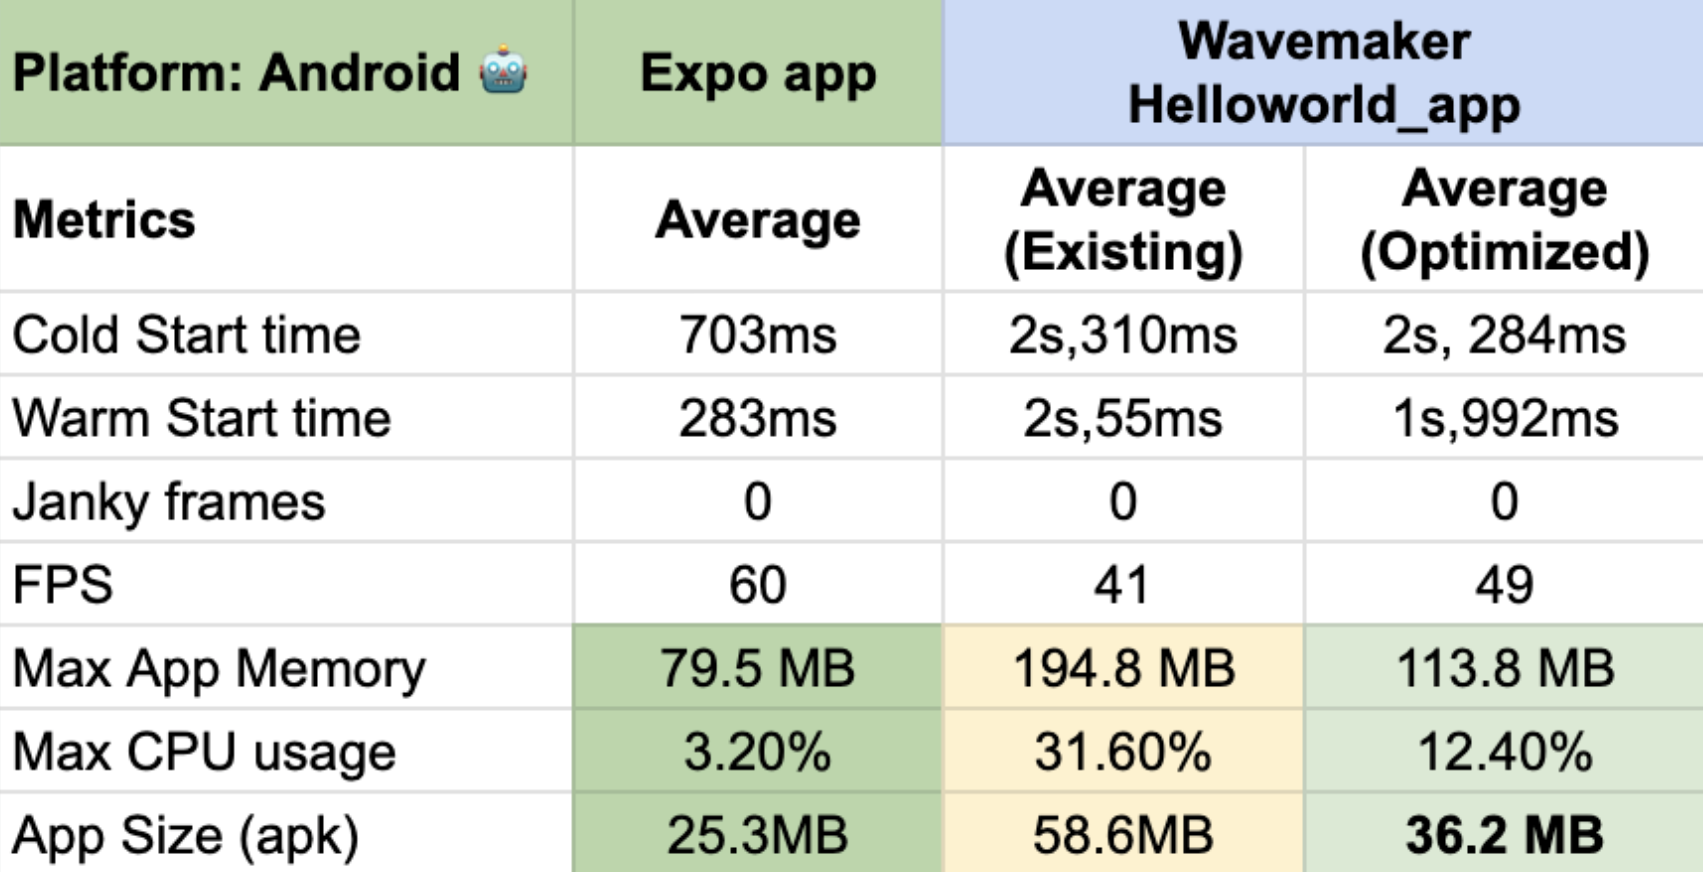
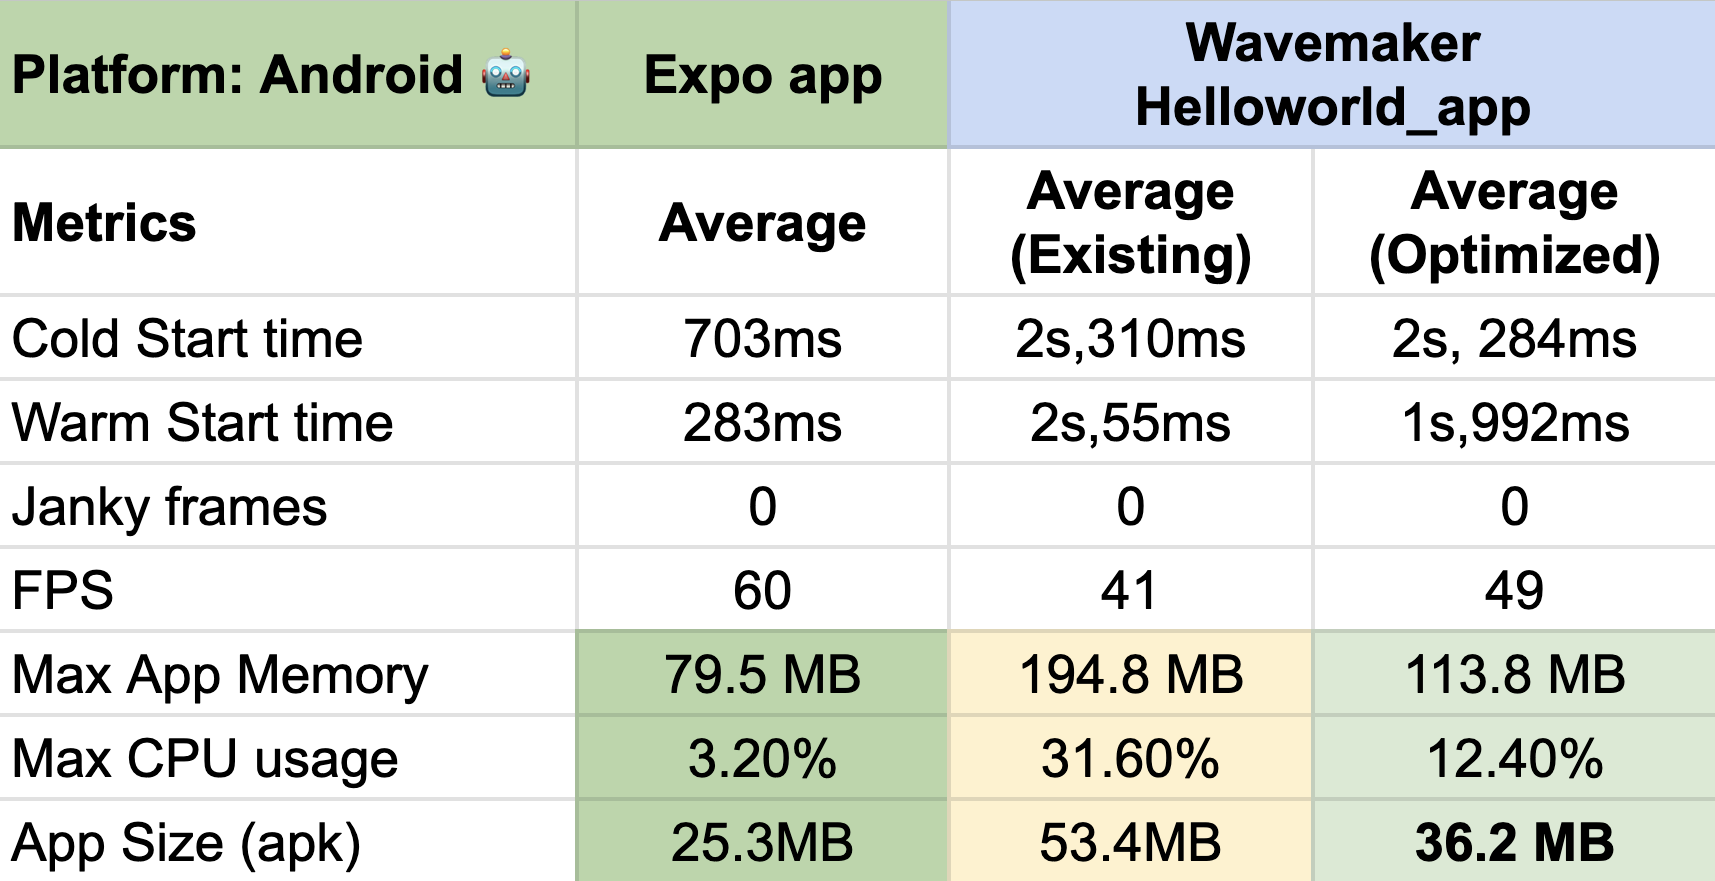
tech stack updated

diff --git a/learn/wavemaker-release-notes/v11-12-0.md b/learn/wavemaker-release-notes/v11-12-0.md
@@ -1,13 +1,13 @@
 ---
 title: "WaveMaker 11.12.0 - Release date: 18 August 2025"
 id: "v11-12-0"
-sidebar_label: "v11.12.0 - Upcoming"
+sidebar_label: "v11.12.0 - Latest"
 ---
 
 import light from '/learn/assets/release-notes/navbar-light-11-11-8.png';
 import dark from '/learn/assets/release-notes/navbar-dark-11-11-8.png';
 
-WaveMaker 11.11.8 introduces enhanced customization and stability to React Native apps. Key updates include navigation bar styling in Edge-to-Edge mode, improved fallback UI, and fixes for scroll, layout, and accessibility issues.
+WaveMaker 11.12.0 introduces WMX Widgets, enabling seamless use of custom React Native components as native WaveMaker widgets. Optimized React Native app and build processes now deliver smaller APKs, faster performance, and lighter apps. This update also brings UI enhancements and key fixes across Web, React Native, and Studio.
 
 ## Features
 
@@ -41,7 +41,7 @@ Existing WaveMaker apps were almost twice as large compared to a blank Expo app.
 For example, the APK size of a simple HelloWorld app built using Expo is **25.3 MB**, whereas the same app built using WaveMaker was **53.4 MB**.
 
 To address this, we:
-- Removed unrequired libraries.
+- Removed unused libraries.
 - Enabled ProGuard and resource shrinking in release builds.
 
 **Impact:**  
@@ -49,8 +49,6 @@ The APK size of the WaveMaker HelloWorld app has been reduced by **17.2 MB** (fr
 This reduction also led to improvements in memory usage and CPU performance.
 
 ![Comparison Table](/learn/assets/release-notes/appSizeTable-11-12-0.png)
-
-> **Note:** The app size mentioned here refers to the APK size on disk, not the compressed download size.
 
 </details>
 <details>
@@ -292,4 +290,114 @@ The request body is now correctly formed and sent, ensuring successful API execu
 </details>
 
 
-- [Latest technology stack and updated libraries](/learn/wavemaker-release-notes#technology-stack)
+## Technology Stack
+
+---
+
+## WaveMaker Studio 
+
+### UI Frameworks (Web and Mobile)
+
+| Description | JS Library | Version |
+| --- | --- | --- |
+| JS Binding | jquery |  3.7.1 |
+|  | jquery-ui* | 1.13.3 |
+| MVC Framework | Angular |  18.2.13  |
+|  | ngx-bootstrap | 9.0.0 |
+| Styles | bootstrap | 3.3.7 |
+| Charting | d3 | 7.8.5 |
+|  | nvd3 | 1.8.11 |
+| Fullcalendar | |  6.1.15 |
+| Built-in functions | lodash-es | 4.17.21|
+| Device support, gestures | hammerjs | 2.0.8 |
+
+Optimized jQuery-UI library excluding unwanted components like accordion, datepicker, dialog, progressbar, spinner, tabs, and all jQuery-UI Effects.
+
+### Backend Frameworks (Web and Mobile)
+
+| Description | Java Library | Version |
+| --- | --- |--------------------|
+|  | Spring Framework | <td className="versiontdbgcolor"> 6.2.6 -> 6.2.9 </td>|
+| Security framework | Spring Security | <td className="versiontdbgcolor">6.4.5 -> 6.4.8</td> |
+|  | Spring Data | 2024.1.5 |
+|  | Spring Boot | 3.4.5 |
+|  | Spring Session | 3.4.3 |
+| Java JSON utilities | Gson  | 2.13.1  |
+| DB Persistence library | Hibernate(Jakarta) | 5.6.15. Final   |
+| Sample database | HSQL | 2.7.4 |
+| JSON library | Jackson | 2.19.0 |
+| Logging framework | SLF4j | 2.0.17 |
+| Logging Implementation | Log4j2 | 2.24.3 |
+| Http client library  | HttpComponents -  httpclient | 5.4.4 |
+| Servlet Framework |  | 6.0.0 |
+| Database Connection Pooling | HikariCP | 6.3.0 |
+|  | Commons Lang3 | <td className="versiontdbgcolor">3.17.0 -> 3.18.0</td> |
+|  | Guava | 33.4.8-jre |
+|  | Postgresql Driver  | 42.7.4  |
+|  | Hibernate Validator | 8.0.2.Final |
+|  | Jgit | <td className="versiontdbgcolor"> 7.2.0.202503040940-r -> 7.3.0.202506031305-r </td>|
+|  | Commons Codec | 1.18.0 |
+|  | Commons IO | 2.19.0 |
+|  | Commons Text |  1.13.1 |
+|  | Antisamy | 1.7.7 |
+|  | Freemarker | 2.3.34 |
+|  | Apache Tika | 3.1.0 |
+|  | Mariadb JDBC Driver | 3.5.2 |
+|  | Mongodb Driver | 5.4.0 |
+|  | Jakarta Validation Api | 3.1.1 |
+|  | commons-validator | <td className="versiontdbgcolor"> 1.9.0 -> 1.10.0 </td>|
+|  | json-smart | <td className="versiontdbgcolor"> 2.5.1 -> 2.5.2 </td>|
+
+## Web
+
+### Runtime Environment
+
+| Description | Version |
+| --- | --- |
+| JDK | 21.0.6 |
+| WebSphere Liberty | 23.0.0.9+ |
+| JBoss Wildfly | 27+ |
+| Tomcat | 10.1.39 |
+
+
+This is the default Tomcat runtime support. Apps can be deployed to any standard Java Web Server running on JDK 11. For more information, see [here](/learn/app-development/deployment/deployment-web-server).
+
+### Angular Web 
+
+|Description|	Version|
+|---|---|
+|Java | 21.0.6 |
+|Node| 22.11.0 |
+|Maven| 3.9.9 |
+|npm | 10.9.0 |
+|Ant| 1.10.11|
+
+For more information about building projects with Maven, see [here](/learn/app-development/deployment/building-with-maven).
+
+
+## Mobile (React Native)
+
+### Environment Setup
+
+|Description|	Version|
+|---|---|
+|Java | 17 |
+|Node|  22.11.0 |
+|Maven| 3.9.9 |
+|npm | 10.9.0 |
+| Android Studio | Ladybug 2024.2.2 - Meerkat 2024.3.1 |
+| Xcode |  15.4  - 16.2 |
+| SDK Build Tools | 34.0.0|
+| [wm-reactnative-cli](https://www.npmjs.com/package/@wavemaker/wm-reactnative-cli) | 1.8.8 |
+| Android Gradle Plugin (AGP) |  8.10.2  |
+
+:::note
+Users can now use a single **Node.js v22.11.0** version across both Web and React Native platforms, as well as CLI tools.
+:::
+
+### SDK Update
+
+|Description|	Version|
+|---|---|
+| Expo | 52.0.17 |
+| React Native | 0.76.3 |

diff --git a/learn/wavemaker-release-notes.md b/learn/wavemaker-release-notes.md
@@ -21,7 +21,7 @@ Follow our [team blog](/learn/blog) to learn product updates from the engineers 
 
 |Named Version| What's in it| Release Date|
 |---|---|---|
-|[WaveMaker 11.11.8](/learn/wavemaker-release-notes/v11-11-8) <p style={{color:"red"}}>*latest*</p> | WaveMaker 11.11.8 introduces enhanced customization and stability to React Native apps. Key updates include navigation bar styling in Edge-to-Edge mode, improved fallback UI, and fixes for scroll, layout, and accessibility issues. | 11 August 2025 |
+|[WaveMaker 11.12.0](/learn/wavemaker-release-notes/v11-12-0) <p style={{color:"red"}}>*latest*</p> | WaveMaker 11.12.0 introduces WMX Widgets, enabling seamless use of custom React Native components as native WaveMaker widgets. Optimized React Native app and build processes now deliver smaller APKs, faster performance, and lighter apps. This update also brings UI enhancements and key fixes across Web, React Native, and Studio. | 18 August 2025 |
 |[WaveMaker 11.11.7](/learn/wavemaker-release-notes/v11-11-7) | WaveMaker 11.11.7 introduces key features like dynamic i18n messages, mTLS configuration via Studio, and an enhanced React Native splash screen setup.This release also includes several bug fixes across Web and React Native, improving UI flexibility and app stability. | 28 July 2025 |
 |[WaveMaker 11.11.6](/learn/wavemaker-release-notes/v11-11-6) | WaveMaker's Release 11.11.6 introduces global error handling in mobile apps to prevent crashes, new React Native enhancements, and delivers several bug fixes across web and mobile app. | 14 July 2025 |
 |[WaveMaker 11.11.5](/learn/wavemaker-release-notes/v11-11-5) | WaveMaker's Release 11.11.5 includes Edge-to-Edge UI and a new Bottom Sheet widget for React Native apps, along with key enhancements like page size selection in Data Table, Custom Label marker in Slider Widget, and read-only mode in Form. Several bug fixes improve behavior across Studio, Web, and React Native. | 30 June 2025 |
@@ -163,7 +163,7 @@ Follow our [team blog](/learn/blog) to learn product updates from the engineers 
 
 ## Technology Stack
 
-Last updated: [WaveMaker 11.11.1](/learn/wavemaker-release-notes/v11-11-1)
+Last updated: [WaveMaker 11.12.0](/learn/wavemaker-release-notes/v11-12-0)
 
 ---
 
@@ -190,25 +190,25 @@ Optimized jQuery-UI library excluding unwanted components like accordion, datepi
 
 | Description | Java Library | Version |
 | --- | --- |--------------------|
-|  | Spring Framework | <td className="versiontdbgcolor"> 6.2.5 -> 6.2.6 </td> |
-| Security framework | Spring Security | <td className="versiontdbgcolor">6.4.4 -> 6.4.5 </td> |
-|  | Spring Data | <td className="versiontdbgcolor">2024.1.4 -> 2024.1.5 </td> |
-|  | Spring Boot |  <td className="versiontdbgcolor">  3.4.4 -> 3.4.5 </td> |
-|  | Spring Session | <td className="versiontdbgcolor"> 3.4.2 -> 3.4.3 </td>|
-| Java JSON utilities | Gson  | <td className="versiontdbgcolor"> 2.13.0 -> 2.13.1 </td> |
+|  | Spring Framework | <td className="versiontdbgcolor"> 6.2.6 -> 6.2.9 </td>|
+| Security framework | Spring Security | <td className="versiontdbgcolor">6.4.5 -> 6.4.8</td> |
+|  | Spring Data | 2024.1.5 |
+|  | Spring Boot | 3.4.5 |
+|  | Spring Session | 3.4.3 |
+| Java JSON utilities | Gson  | 2.13.1  |
 | DB Persistence library | Hibernate(Jakarta) | 5.6.15. Final   |
 | Sample database | HSQL | 2.7.4 |
-| JSON library | Jackson |   <td className="versiontdbgcolor"> 2.18.3 -> 2.19.0 </td> |
+| JSON library | Jackson | 2.19.0 |
 | Logging framework | SLF4j | 2.0.17 |
 | Logging Implementation | Log4j2 | 2.24.3 |
-| Http client library  | HttpComponents -  httpclient | <td className="versiontdbgcolor"> 5.4.3 -> 5.4.4 </td> |
+| Http client library  | HttpComponents -  httpclient | 5.4.4 |
 | Servlet Framework |  | 6.0.0 |
 | Database Connection Pooling | HikariCP | 6.3.0 |
-|  | Commons Lang3 | 3.17.0  |
+|  | Commons Lang3 | <td className="versiontdbgcolor">3.17.0 -> 3.18.0</td> |
 |  | Guava | 33.4.8-jre |
 |  | Postgresql Driver  | 42.7.4  |
 |  | Hibernate Validator | 8.0.2.Final |
-|  | Jgit | 7.2.0.202503040940-r |
+|  | Jgit | <td className="versiontdbgcolor"> 7.2.0.202503040940-r -> 7.3.0.202506031305-r </td>|
 |  | Commons Codec | 1.18.0 |
 |  | Commons IO | 2.19.0 |
 |  | Commons Text |  1.13.1 |
@@ -218,7 +218,8 @@ Optimized jQuery-UI library excluding unwanted components like accordion, datepi
 |  | Mariadb JDBC Driver | 3.5.2 |
 |  | Mongodb Driver | 5.4.0 |
 |  | Jakarta Validation Api | 3.1.1 |
-
+|  | commons-validator | <td className="versiontdbgcolor"> 1.9.0 -> 1.10.0 </td>|
+|  | json-smart | <td className="versiontdbgcolor"> 2.5.1 -> 2.5.2 </td>|
 
 ## Web
 
@@ -244,11 +245,12 @@ This is the default Tomcat runtime support. Apps can be deployed to any standard
 |npm | 10.9.0 |
 |Ant| 1.10.11|
 
+For more information about building projects with Maven, see [here](/learn/app-development/deployment/building-with-maven).
+
 
 ## Mobile (React Native)
 
 ### Environment Setup
-
 
 |Description|	Version|
 |---|---|
